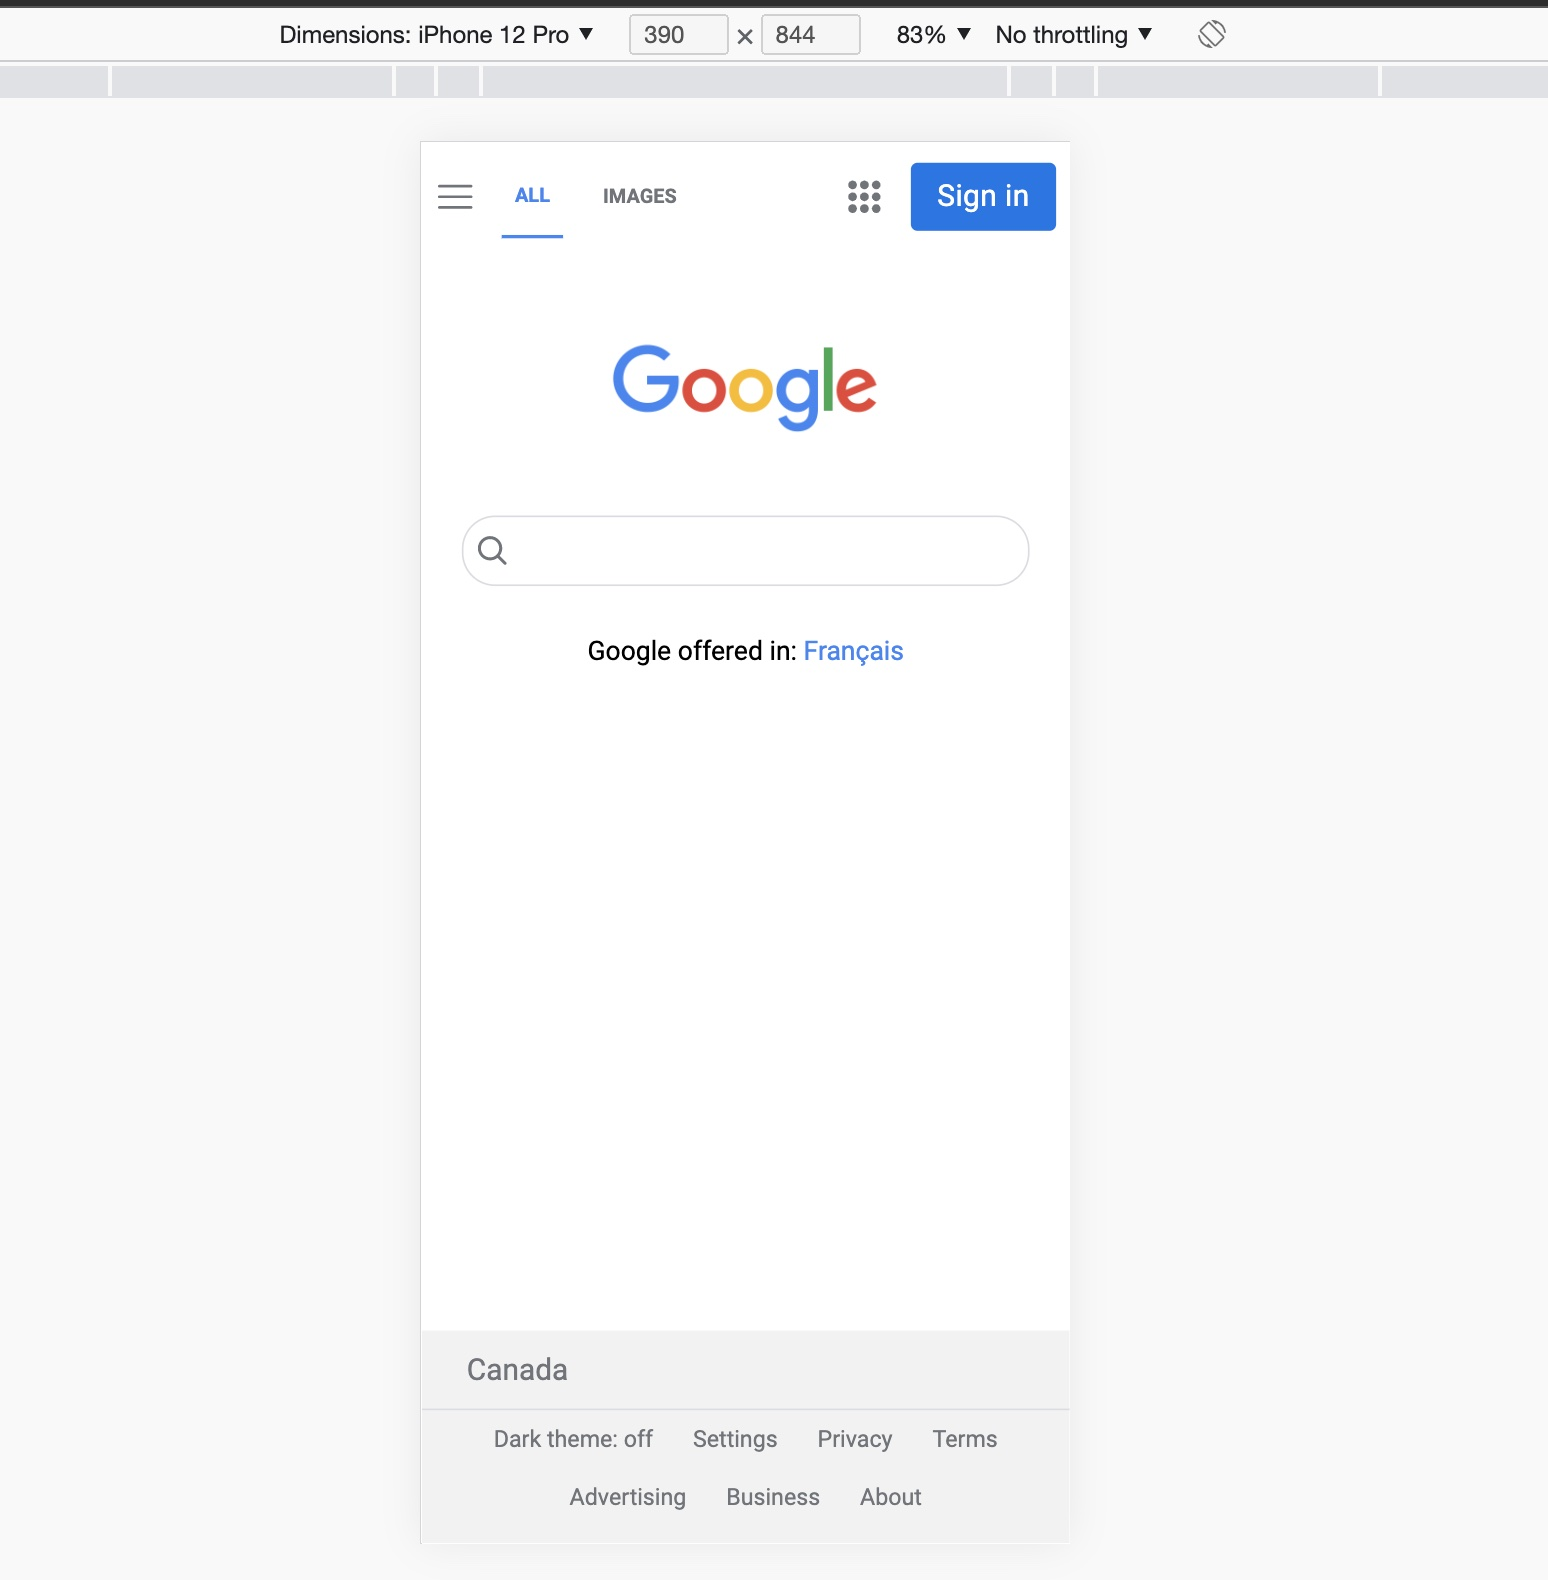
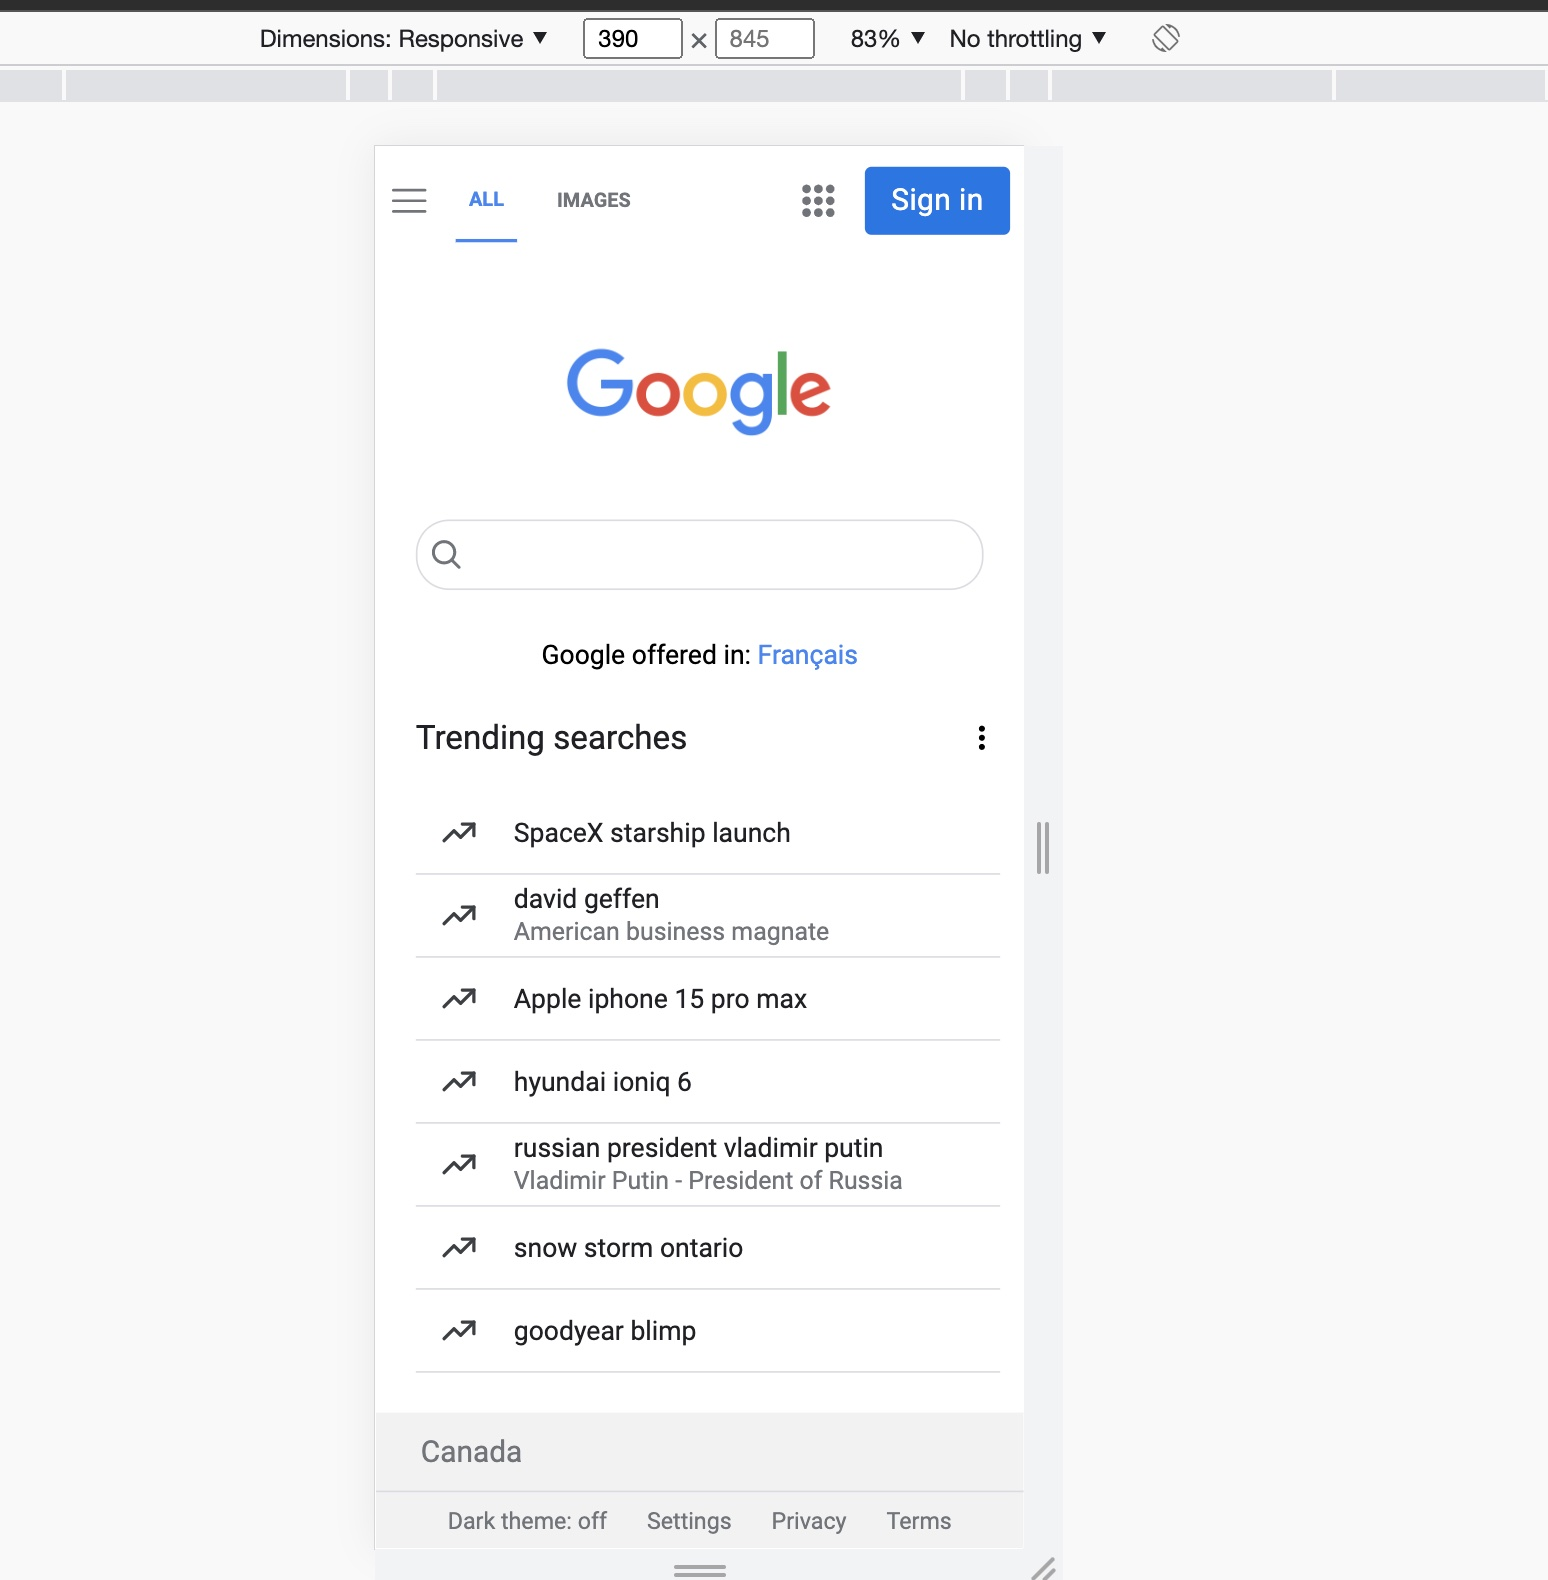
added trending search items when viewed from mobile

diff --git a/src/features/search/components/MobileTrendingSearches/index.jsx b/src/features/search/components/MobileTrendingSearches/index.jsx
@@ -1,0 +1,49 @@
+import { MdOutlineMoreVert as MoreIcon } from "react-icons/md";
+import { TbTrendingUp as TrendingIcon } from "react-icons/tb";
+
+import styles from "./MobileTrendingSearches.module.css";
+
+const DUMMY_TRENDING_SEARCH_ITEMS = [
+  { title: "SpaceX starship launch", desc: null },
+  { title: "david geffen", desc: "American business magnate" },
+  { title: "Apple iphone 15 pro max", desc: null },
+  { title: "hyundai ioniq 6", desc: null },
+  {
+    title: "russian president vladimir putin",
+    desc: "Vladimir Putin - President of Russia",
+  },
+  { title: "snow storm ontario", desc: null },
+  { title: "goodyear blimp", desc: null },
+];
+
+export const MobileTrendingSearches = () => {
+  return (
+    <div className={styles.mobileTrendingSearches}>
+      <div className={styles.header}>
+        <p>Trending searches</p>
+        <MoreIcon className={styles.moreIcon} />
+      </div>
+      <div className={styles.trendingSearchList}>
+        {DUMMY_TRENDING_SEARCH_ITEMS.map((searchItem, index) => (
+          <TrendingSearchRow
+            key={index}
+            title={searchItem.title}
+            description={searchItem.desc}
+          />
+        ))}
+      </div>
+    </div>
+  );
+};
+
+function TrendingSearchRow({ title, description = null }) {
+  return (
+    <div className={styles.trendingSearchRow}>
+      <TrendingIcon className={styles.trendingIcon} />
+      <div className={styles.queryContent}>
+        <p>{title}</p>
+        {description && <p className={styles.description}>{description}</p>}
+      </div>
+    </div>
+  );
+}

diff --git a/src/features/search/components/MobileTrendingSearches/MobileTrendingSearches.module.css b/src/features/search/components/MobileTrendingSearches/MobileTrendingSearches.module.css
@@ -1,0 +1,53 @@
+.mobileTrendingSearches {
+  margin-left: 24px;
+  margin-right: 14px;
+}
+.header {
+  padding: 5px 0;
+  display: flex;
+  justify-content: space-between;
+  align-items: center;
+  margin-bottom: 16px;
+}
+.header p {
+  margin: 0;
+  padding: 0;
+  color: var(--googleBlack);
+  text-align: left;
+  font-size: 20px;
+  font-weight: 400;
+}
+.moreIcon {
+  font-size: 22px;
+}
+.trendingSearchList {
+  display: flex;
+  flex-direction: column;
+}
+.trendingSearchRow {
+  height: 50px;
+  display: flex;
+  align-items: center;
+  border-bottom: 1px solid var(--googleGrey2);
+}
+.trendingIcon {
+  font-size: 24px;
+  color: var(--googleBlack2);
+  margin-right: 8px;
+  margin-left: 14px;
+}
+.queryContent {
+  margin: 5px 0 5px 13px;
+}
+.trendingSearchRow p {
+  margin: 0;
+  padding: 0;
+  color: var(--googleBlack);
+  font-size: 16px;
+  line-height: 20px;
+  cursor: pointer;
+}
+.trendingSearchRow p.description {
+  color: var(--googleGrey);
+  font-size: 15px;
+}

diff --git a/src/features/search/pages/search-query/index.jsx b/src/features/search/pages/search-query/index.jsx
@@ -4,12 +4,16 @@ import { BsCamera as Camera } from "react-icons/bs";
 
 import { MainLayout } from "layouts";
 import { PrimaryButton } from "components/UI";
+import { MobileTrendingSearches } from "features/search/components";
+
+import { useWindowDimensions } from "hooks/ui_hooks";
 
 import styles from "./SearchQueryPage.module.css";
 
 import googleLogo from "assets/logo.png";
 
 export const SearchQueryPage = () => {
+  const { width } = useWindowDimensions();
   return (
     <MainLayout>
       <div className={styles.searchQueryPage}>
@@ -37,6 +41,9 @@ export const SearchQueryPage = () => {
           </div>
           <div className={styles.otherLanguages}>
             Google offered in: <span> Français</span>
+          </div>
+          <div className={styles.trendingSearches}>
+            {width < 501 && <MobileTrendingSearches />}
           </div>
         </div>
       </div>

diff --git a/src/features/search/pages/search-query/SearchQueryPage.module.css b/src/features/search/pages/search-query/SearchQueryPage.module.css
@@ -47,10 +47,14 @@
 .otherLanguages {
   text-align: center;
   font-size: 16px;
+  margin-bottom: 24px;
 }
 .otherLanguages span {
   color: var(--googleBlue);
   cursor: pointer;
+}
+.trendingSearches {
+  margin-bottom: 24px;
 }
 
 @media (min-width: 501px) {
@@ -64,7 +68,7 @@
     margin: 0 auto;
     width: 50%;
   }
-  .searchForm input{
+  .searchForm input {
     padding-right: 75px;
   }
   .microphoneIcon,

diff --git a/src/features/search/components/index.js b/src/features/search/components/index.js
@@ -1,0 +1,1 @@
+export * from "features/search/components/MobileTrendingSearches"

diff --git a/README.md b/README.md
@@ -1,12 +1,12 @@
 # Googly
 
-A Google(UI) Clone
+A Google Search(UI) Clone
 
 Visit the app [here](https://googly-lovat.vercel.app/)
 
 The structure of  this project is documented at [docs/README.md](./docs/README.md)
 
-This is a fully responsive UI implementation of Google search.
+This is a fully responsive UI implementation of Google search built with ReactJS and styled with custom CSS.
 
 ![mobile](docs/progress/mobile_home.jpg) 
 ![desktop](docs/progress/desktop_home.jpg) 
